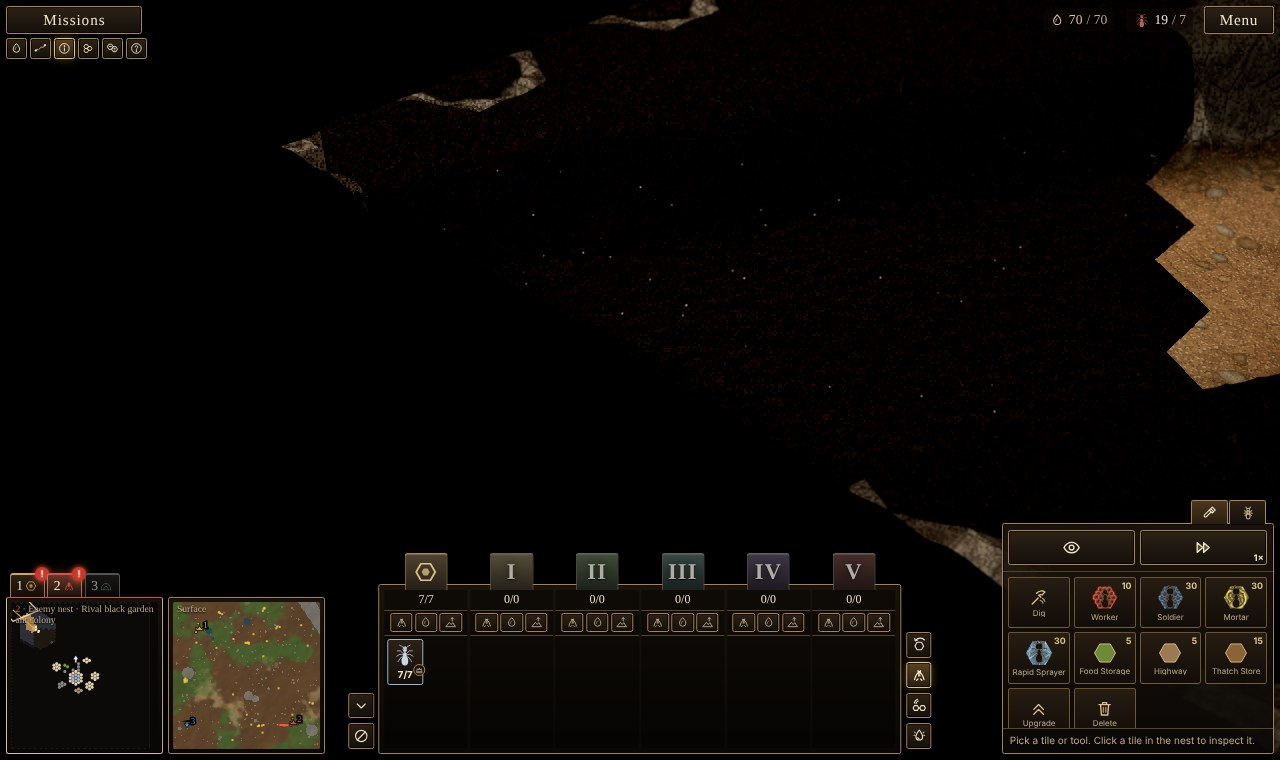
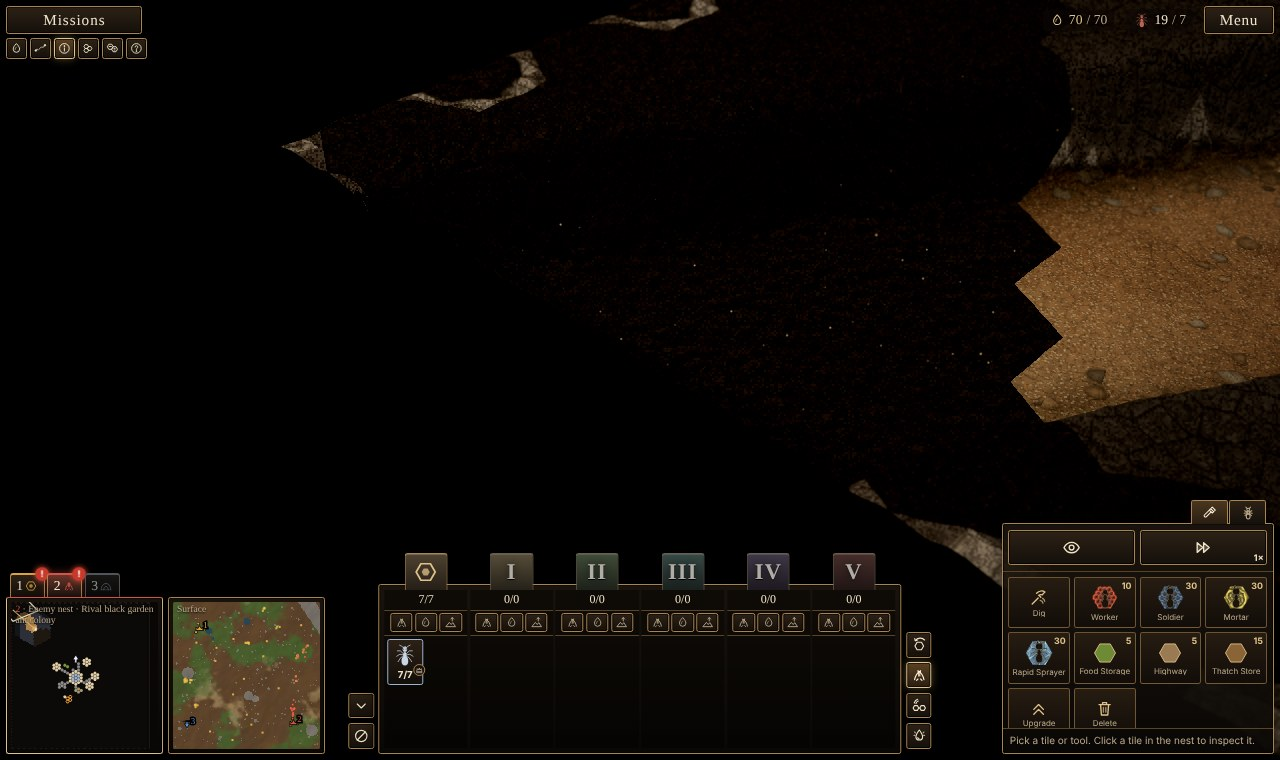
Tunnel route signs: camera-facing quads at floor height, sized with the camera distance (the sprite hung above the wall and out of view); CHANGE_PLAN §27.4 results
Claude-Session: https://claude.ai/code/session_01CHQSvFZpM7x99nWSYQeCda

Changed region(s): [[0.7812, 0.1513, 1.0, 0.6053], [0.8125, 0.0605, 0.9062, 0.0908], [0.9062, 0.1513, 0.9688, 0.1816]]

diff --git a/src/render/game/routeSigns.ts b/src/render/game/routeSigns.ts
@@ -71,23 +71,26 @@ function texture(kind: SignKind): THREE.CanvasTexture {
 
 export class RouteSigns {
   readonly group = new THREE.Group();
-  private sprites: THREE.Sprite[] = [];
-  private mats = new Map<SignKind, THREE.SpriteMaterial>();
+  private sprites: THREE.Mesh[] = [];
+  private mats = new Map<SignKind, THREE.MeshBasicMaterial>();
+  private quad = new THREE.PlaneGeometry(1, 1);
 
-  private mat(kind: SignKind): THREE.SpriteMaterial {
+  private mat(kind: SignKind): THREE.MeshBasicMaterial {
     let m = this.mats.get(kind);
     if (!m) {
-      m = new THREE.SpriteMaterial({ map: texture(kind), depthTest: false, depthWrite: false, transparent: true, toneMapped: false });
+      // (camera-facing quads like the health bars: drawn over everything, no fog, no tone mapping)
+      m = new THREE.MeshBasicMaterial({ map: texture(kind), depthTest: false, depthWrite: false, transparent: true, toneMapped: false, fog: false, side: THREE.DoubleSide });
       this.mats.set(kind, m);
     }
     return m;
   }
 
   /** Draw the signs this frame: positions in nest mm, `height` the floor height there, `scale` sprite size in mm, `time` for the pulse. */
-  update(signs: ReadonlyArray<Sign>, height: (x: number, y: number) => number, scale: number, time: number): void {
+  update(signs: ReadonlyArray<Sign>, height: (x: number, y: number) => number, scale: number, time: number, camera?: THREE.Camera): void {
     while (this.sprites.length < signs.length) {
-      const sp = new THREE.Sprite(this.mat('alert'));
+      const sp = new THREE.Mesh(this.quad, this.mat('alert'));
       sp.renderOrder = 50;
+      sp.frustumCulled = false;
       this.group.add(sp);
       this.sprites.push(sp);
     }
@@ -104,8 +107,10 @@ export class RouteSigns {
       const pulse = big ? 1 + 0.12 * Math.sin(time * 5) : 1;
       const s = scale * (big ? 1 : 0.6) * pulse;
       sp.scale.set(s, s, 1);
-      sp.position.set(sg.x, height(sg.x, sg.y) + s * (big ? 1.1 : 0.7), sg.y);
-      sp.material.opacity = sg.a ?? 1;
+      // just above the floor (a gate sits in the wall: its sign hangs at head height, not over the wall top)
+      sp.position.set(sg.x, height(sg.x, sg.y) + s * (big ? 0.6 : 0.5), sg.y);
+      if (camera) sp.quaternion.copy(camera.quaternion);
+      (sp.material as THREE.MeshBasicMaterial).opacity = sg.a ?? 1;
     }
   }
 

diff --git a/src/game/nestView.ts b/src/game/nestView.ts
@@ -196,7 +196,7 @@ export class NestView {
     this.markers.update(shown, this.space, (x, y) => nt.heightAt(x, y), camDist, (i) => markerRadius(w, player, i), markerSel, time);
     if (owner) this.updateRings(w, owner, owner === player ? pendingHexes : [], time);
     else this.rings.set([]);
-    this.signs.update(fog ? fog.signs(w, player, this.space, this.signList) : [], (x, y) => nt.heightAt(x, y), g.R * 1.6, time);
+    this.signs.update(fog ? fog.signs(w, player, this.space, this.signList) : [], (x, y) => nt.floorAt(x, y), Math.max(g.R * 0.6, Math.min(g.R * 2.5, camDist * 0.045)), time, cam);
   }
 
   private static JOB_COL = new THREE.Color(0xffd27a);

diff --git a/CHANGE_PLAN.md b/CHANGE_PLAN.md
@@ -1187,5 +1187,26 @@ client-side only.
 (new), `ui/minimaps.ts`, `ui/gameUI.ts`, `audio/gameAudio.ts`, `tests/tunnels.ts` (new), `tools/tunnel-dig-probe.ts`
 (new), docs.
 
-### 27.4 Results
-(filled in as the work lands — see PROGRESS.md "2026-11-06 — A shared underground".)
+### 27.4 Results (2026-11-07)
+- Routes valid on every playable map for 2, 3, 4, 6 and 10 colonies × 2 seeds (`tools/tunnel-check.ts`): three hexes
+  wide (bands of every margin hex within a step of the centreline, rock pockets filled), rock-walled, gates on the
+  interior edge ≥ 4 from the flower and ≥ 5 apart; all pairs ≤ 4 colonies (6 routes for 4), nearest neighbours without
+  surface crossings above (9 routes for 6).
+- Dig times with six level-1 workers (`tests/tunnels.ts`, seed 3): the defender warned at 4.5 min, the route open at
+  5.7 min, the breach into the rival's floor at 6.7 min; both sides digging: open at 3.6 min. `hexWorkMul` went
+  10 → 5 → 4 → 3 to land near the spec's 3–5 min (the hexes dug one step of three at a time, two workers each, so the
+  crew of six is the natural crew size).
+- Changes of plan while building: a half's `breach` is also the owner's own passage from its floor to its gate (the
+  AI's nests never reach the edge; dug first, from the floor outward); `goOut` takes a usable route home from a foreign
+  nest (every "not in own nest → go out" path in antAI then walks the tunnel instead of climbing out — before that,
+  marker groups oscillated between the nests); the `tunnelBreach` event (the gate joining the floor) was added for the
+  "they have dug into your nest" alert; `Fog` lives on the session and is handed to each `NestView`.
+- AI (`tools/tunnel-ai-probe.ts`, Brutal, seed 5, 4 colonies with an AI ally): the fire ants tunnelled toward the idle
+  player — warned 13.3 min, open 13.8, in 14.7 — and the leafcutter ally linked nests at 14 min; the black garden ants
+  guarded (DEFEND) when warned. Easy never tunnels.
+- Checks: `npm test` (32 suites incl. `tests/tunnels.ts`), `tools/check-determinism.ts` (72 files clean), `npm run
+  build`. `tests/run-all.ts` and `tests/entrances.ts` were adjusted for the margin and version 4.
+- Open: the fog's "remembered" dimming is subtle on the dark tunnel floor; hints past the frontier appear only when the
+  rival has ants/food within 3 hexes of its gate (quiet gates give none); the nest renderer's full-grid SDF runs on
+  every grid version change over a grid 2.3× the cells (fine on this machine; a device check with 10 colonies is
+  pending); creatures cross only open routes; the camera switch needs the goal pushed against the rim in a rim step.
